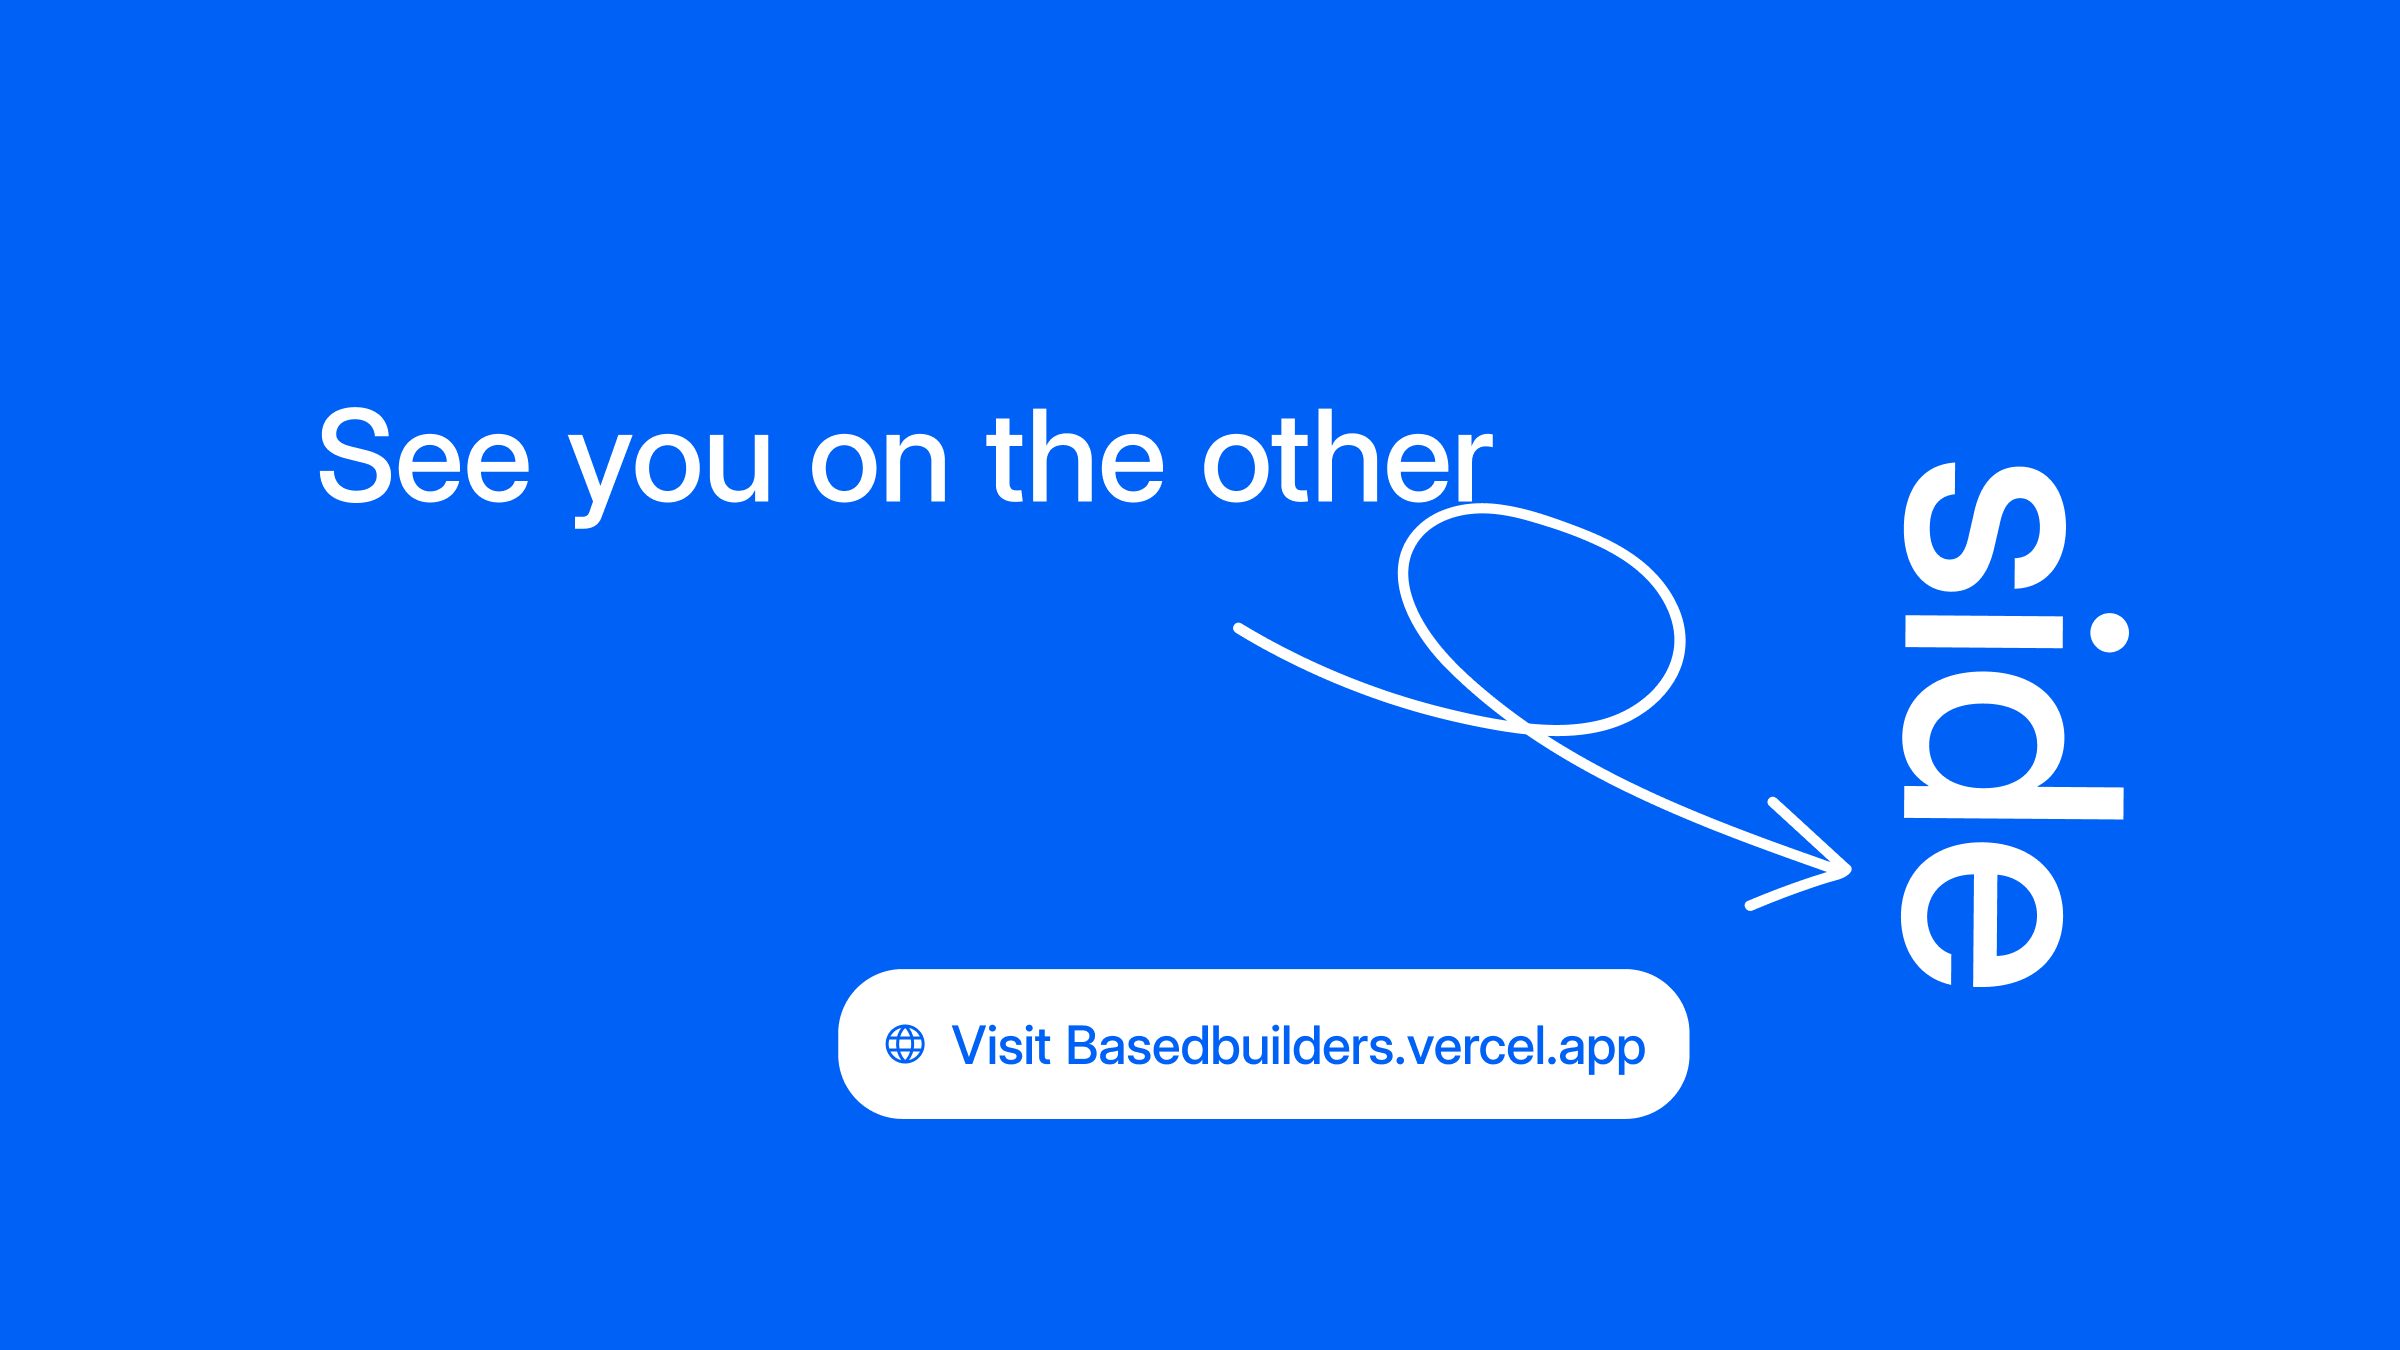
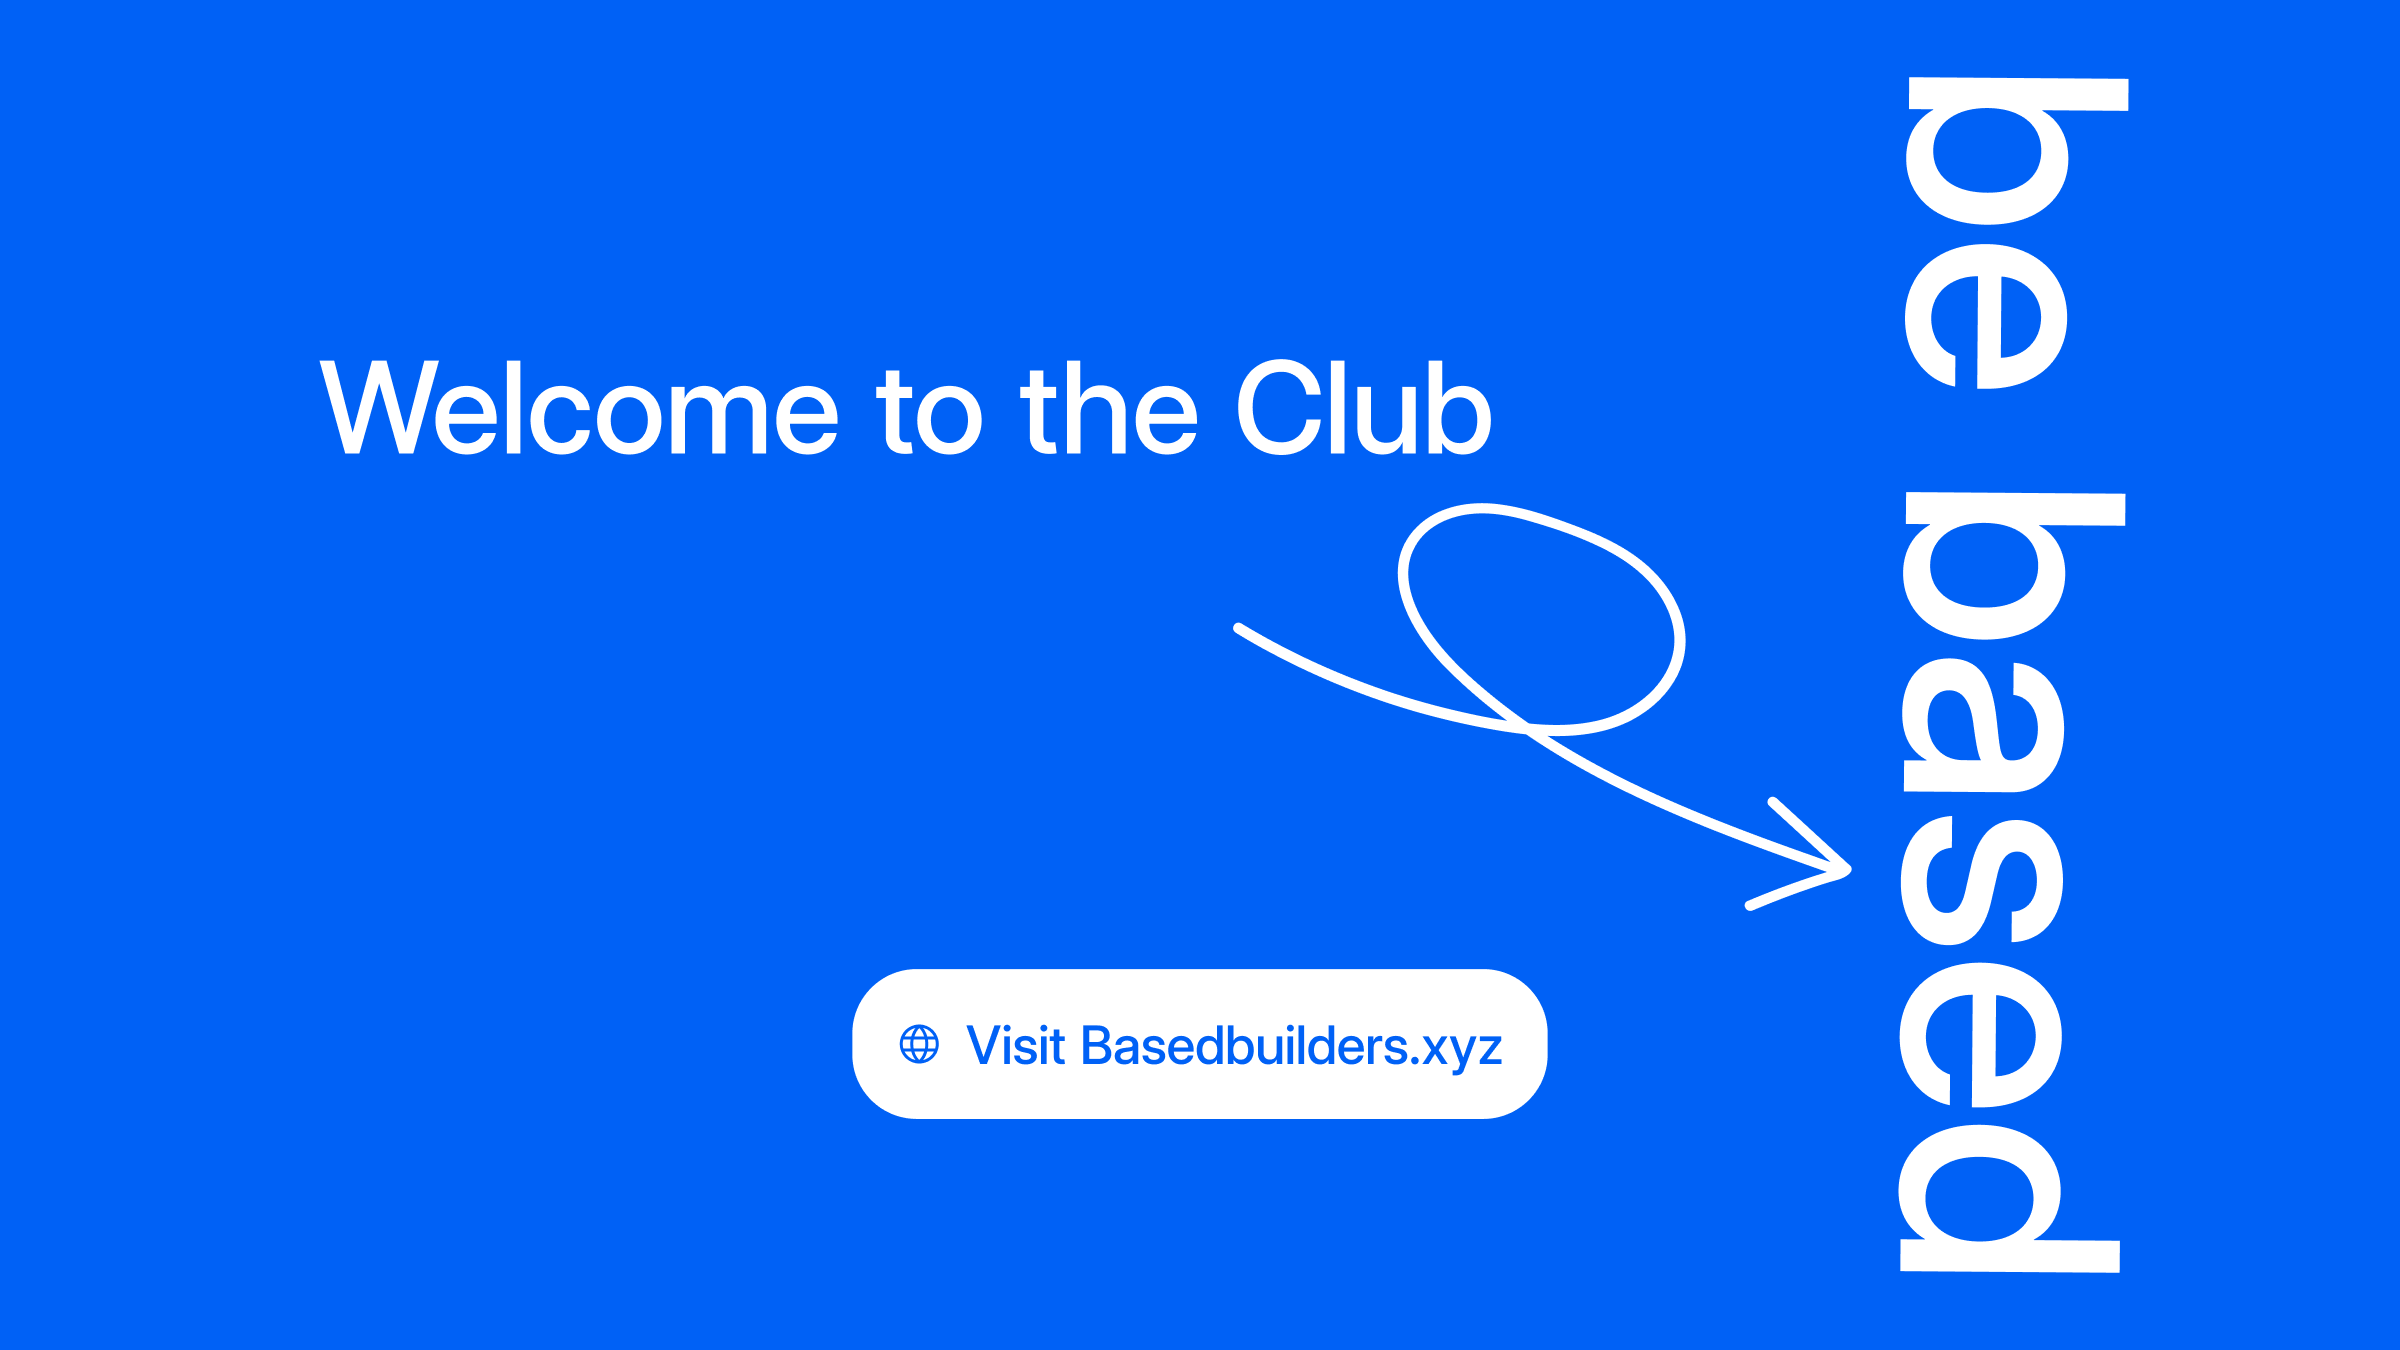
feat added button to end screen

diff --git a/basedbuilderbot/src/app/api/frame-profile-saved/route.ts b/basedbuilderbot/src/app/api/frame-profile-saved/route.ts
@@ -20,6 +20,9 @@ let page = `<html lang="en">
     <title>Meta Tags Example</title>
     <meta property="fc:frame:image" content="${CLIENT_URL}/${OG_IMAGE}" />
     <meta property="fc:frame" content="vNext" />
+    <meta property="fc:frame:button:1" content="Visit BasedBuilders" />
+    <meta property="fc:frame:button:1:action" content="link" />
+    <meta property="fc:frame:button:1:target" content="${CLIENT_URL}" />
 </head>
 <body>
     <h1>Welcome to the Meta Tags Example Page</h1>
